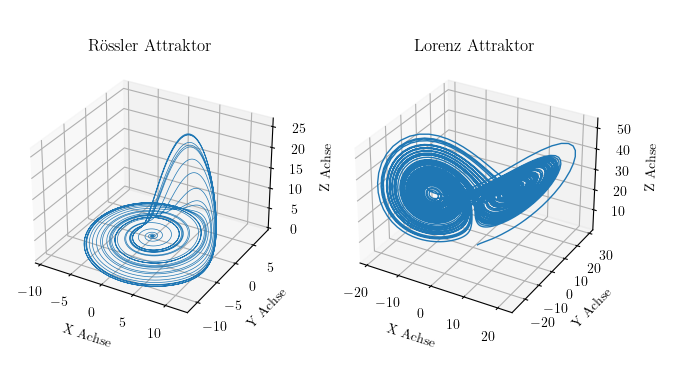
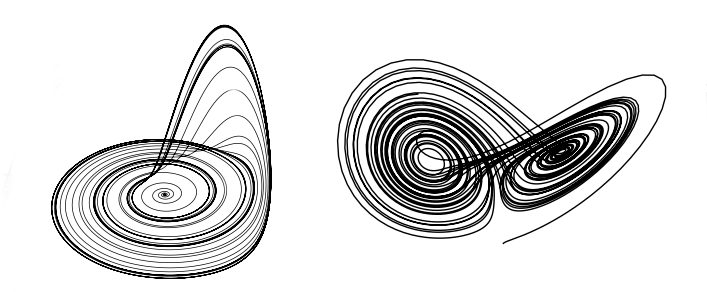
Chaos: Theo fertig

diff --git a/Versuch_Chaos/21-AllgemeinesChaos.tex b/Versuch_Chaos/21-AllgemeinesChaos.tex
@@ -9,7 +9,7 @@
 \subsection{Dynamische Systeme}
 \label{sub:dynamSys}
 Ein \textit{\textbf{dynamisches System}} ist ein mathematisches Modell eines zeitabhängigen Prozesses, dessen Verlauf nur vom Anfangszustand abhängt. \citep{WikiDynSys}\\
-Die Formulierung dieses Sachverhaltes in der Physik geschieht anhand von Differentialgleichungen mit dem Vektor $\vect{x}(t)=(x_1(t)$,...$x_n(t))\in\mathbb{R}^n$
+Die Formulierung dieses Sachverhaltes in der Physik geschieht anhand von Differentialgleichungen mit dem Vektor $\vect{x}(t)=(x_1(t)$,..., $x_n(t))\in\mathbb{R}^n$
 \begin{gather}
     \dot{\vect{x}}(t)=\vect{F}(\vect{x}(t)),
     \label{eq:dynamDGL}
@@ -35,7 +35,7 @@ Das dynamische System ist vollständig determiniert, wenn ein Zustand $\vect{x}(
     Durch die Abhängigkeit der \textit{Trajektorien} vom Anfangszustand $\vect{x}_0$ kann gefolgert werden, dass sich \textit{Trajektorien} mit unterschiedlichen Anfangszuständen $\vect{x}_0$ nicht schneiden können. Es können aber unterschiedliche Anfangszustände $\vect{x}_0$ auf derselben \textit{Trajektorie} befinden und sich nur um eine Zeittranslation unterscheiden. \citep{Mat1}\\
 
     \item[\textbf{3.}]\textbf{Phasenraum}\\
-    Der \textit{\textbf{Phasenraum}} oder \textit{\textbf{Zustandsraum}} beschreibt eine Menge aller Zustände oder eine Darstellung aller Trajektorien eines dynamischen Systems und bietet einen Überblick über das Verhalten der gesamten Differentialgleichung ohne diese explizit für $\vect{x}(t)$ lösen zu müssen. Der \textit{Phasenraum} ist hierbei eine Parameterdarstellung von der Differentialgleichung mit dem Zustand $\vect{x}(t)$ und dessen Ableitung $\dot{\vect{x}}(t)$ mit der Zeit $t$ als Parameter.\\ %!!! Quelle
+    Der \textit{\textbf{Phasenraum}} oder \textit{\textbf{Zustandsraum}} beschreibt eine Menge aller Zustände oder eine Darstellung aller Trajektorien eines dynamischen Systems und bietet einen Überblick über das Verhalten der gesamten Differentialgleichung ohne diese explizit lösen zu müssen.\\ %!!! Quelle
     %Der \textit{Phasenraum} wird vom Zustand $\vect{x}(t)$ und dessen Ableitung $\dot{\vect{x}}(t)$ aufgespannt bzw. ist eine $(\vect{x}(t),\dot{\vect{x}}(t))$-Ebene, was eine Parameterdarstellung der Differentialgleichung über die Zeit $t$ darstellt.
     %In diesem \textit{Phasenraum} lässt sich dann ein Vektor $(\vect{x},\dot{\vect{x}})$ definieren, welcher auf die \textit{Trajektorien}, die sich mit dem Anfangszustand $\vect{x}_0$ änderen, zeigt. Die Ableitung dieses Vektors $\frac{\text{d}}{\text{d}t}(\vect{x},\dot{\vect{x}})=(\dot{\vect{x}},\ddot{\vect{x}})$ erzeugt ein \textit{Vektorfeld} bzw. ein \textit{Richtungsfeld} der Differentialgleichung, dessen Vektoren tangential auf den \textit{Trajektorien} steht.
 
@@ -63,8 +63,9 @@ Das dynamische System ist vollständig determiniert, wenn ein Zustand $\vect{x}(
         \end{tabular}
         \captionof{figure}{Fixpunkt, Grenzzyklus, Tours- bzw. Ringattraktor}
         \includegraphics[width=14cm]{SeltsameAttraktoren.png}
-        \captionof{figure}{Seltsame Attraktoren}
+        \captionof{figure}{Seltsame Attraktoren: Rössler- und Lorentzattraktor}
     \end{center}
+    % !!! Quelle \citep{Lueck}
 \end{itemize}
 
 \subsection{Deterministisches Chaos}
@@ -77,4 +78,15 @@ Das dynamische System ist vollständig determiniert, wenn ein Zustand $\vect{x}(
 
 \subsection{Darstellungsweisen eines chaotischen Attraktor}
 \label{sub:darstellungAttraktor}
-% TODO: #20 FzV 2.1.5 @ManeLippert
+\begin{itemize}
+    \item[\textbf{1.}]{\textbf{Phasenraumdarstellung}}\\
+    Die \textit{\textbf{Phasenraumdarstellung}} wie in \ref{sec:allgemeines} erwähnt, gibt einen Überblick über den Verlauf der Bewegung des dynamischen Systems. Dabei trägt man je an eine Raumachse eine Phasenraumvariabel auf (z.B. $x, \dot{x}$), wobei der Phasenraum dabei $n$-Dimensionen haben kann und nicht alle Phasenraumvariablen bekannt sein müssen, da ein Attraktor im Phasenraum rekonstruiert werden kann. Dazu werden die Messwerte einer Phasenraumvariablen bei einer festen Zeitspanne $\tau$, also $\varphi(t), \varphi(t+\tau)$,..., $\varphi(t+(n-1)\tau)$, als neu Koordinaten $x_i$ (z.B. $x_1=\varphi(t) und x-2=\varphi(t+\tau))$ eines neuen Koordinatensystems. Bei richtiger Wahl von $\tau$ und $n$ lässt sich der tatsächliche Attraktor rekonstruieren. \citep{Lueck}
+    \item[\textbf{2.}]{\textbf{Poincar\'e-Abbildung}}\\
+    Die \textit{\textbf{Poincar\'e-Abbildung}} ist eine Projektion des \textit{\textbf{Poincar\'e-Schnitts}} an einer Ebene. Diese Abbildung ist immer die Dimension $n-1$ und ist somit eine Dimension niedriger als der Phasenraum mit der Dimension $n$ und es gehen keinen Informationen bzgl. dem Langzeitverhalten des Systems verloren. Aufgrund dieser Tatsache lässt sich die \textit{Poincar\'e-Abbildung} zur Analyse von höherdimensionalen Phasenräumen verwenden. Der \textit{Poincar\'e-Schnitt} ist dabei eine Menge aller Durchstoßpunkte der Trajektorien im Phasenraum auf einer Hyperfläche. Hierbei müssen die Trajektorien die Hyperfläche \textit{transversal} (senkrecht) und in einer vorgegebenen Richtung schneiden. Praktisch werden meistens die Lage von Extremwerten einer Messgröße als Bedingung für die Schnittebene (Hyperfläche) und trägt diese gegen die anderen Phasenraumvariablen zu diesem Zeitpunkt gegeneinander auf oder man wählt eine Ebene, die den Attraktor geeignet schneidet. \citep{Lueck}
+    \item[\textbf{3.}]{\textbf{Wiederkehr-Abbildung}}\\
+    Bei der \textit{\textbf{Wiederkehr-Abbildung}} wird eine diskrete Abbildung aktueller Messwerte über die vorangegangenen Messwerte augetragen. Diese Abbildung ähnelt dann einen \textit{Poincar\'e-Schnitt}, weswegen man bei einem kontinuierlichen System (\ref{eq:dynamDGL}) dessen \textit{Poincar\'e-Abbildung} für dieses Verfahren verwendet. \citep{Lueck}
+    \item[\textbf{4.}]{\textbf{Bifurkationsdiagramm}}\\
+    Bei einem \textit{\textbf{Bifurkationsdiagramm}} betrachtet man die Projektion der \textit{Poincar\'e-Abbildung} auf \textbf{eine} Achse unter Veränderung eines Kontrollparameters (z.B. der Zeit $t$), wobei man die durch die Projektion gewonnenen Werte gegen den jeweiligen Parameterwert aufträgt. \citep{Lueck}
+    \item[\textbf{5.}]{\textbf{Phasendiagramm}}\\
+    Wenn bei dem \textit{Bifurkationsdiagramm} mehrere unterschiedliche voneinander unabhängige Parameter existieren, verwendet man das \textit{\textbf{Phasendiagramm}}. Dazu trägt man die als Koordinaatenachsen die jeweiligen Parameter, die das Systemverhalten beeinflussen, gegeneinander auf und erhält Landkarte des globalen Systemverhaltens in Abhängigkeit der gewählten Parameter. \citep{Lueck}    
+\end{itemize}

diff --git a/Versuch_Chaos/21-Attraktor.py b/Versuch_Chaos/21-Attraktor.py
@@ -1,4 +1,6 @@
 # Source: http://jupiter-online.net/roessler-attraktor-zeichnen-mit-matplotlib/
+# Source: http://jupiter-online.net/lorenz-attraktor-zeichnen-mit-matplotlib/
+
 # Module importieren
 import numpy as np
 import matplotlib.pyplot as plt
@@ -6,79 +8,81 @@ from matplotlib import rc
 from mpl_toolkits.mplot3d import Axes3D
 
 '''Roessler Attraktor'''
-# Funktion zur Berechnung des Rössler Attraktors
-def roessler(x, y, z, a=0.2, b=0.2, c=5.7):
+def roessler(x, y, z, a, b, c):
     dx = -(y + z)
     dy = x + a * y
     dz = b + z * (x - c)
     return dx, dy, dz
 
+'''Lorentz Attraktor'''
+def lorentz(x, y, z, a, b, c):
+    dx = a * (y - x)
+    dy = b * x - y - x * z
+    dz = x * y - c * z
+    return dx, dy, dz
+
+def test(x ,y , z ,a ,b ,c):
+    dx = a*(y-x)+y*z
+    dy = b*x - y -x*z
+    dz = x*y-c*z
+    return dx, dy, dz
+
 # Schrittweite und Anzahl der Schritte definieren
 dt = 0.01
-numSteps = 20000
+numSteps_r = 30000
+numSteps_l = 5000
  
 # Arrays für x, y und z Werte initialisieren
-X = np.zeros(numSteps + 1)
-Y = np.zeros(numSteps + 1)
-Z = np.zeros(numSteps + 1)
+x_r = np.zeros(numSteps_r + 1)
+y_r = np.zeros(numSteps_r + 1)
+z_r = np.zeros(numSteps_r + 1)
+
+x_l = np.zeros(numSteps_l + 1)
+y_l = np.zeros(numSteps_l + 1)
+z_l = np.zeros(numSteps_l + 1)
  
 # Starwerte festlegen
-X[0], Y[0], Z[0] = (0, 0, 0)
+x_r[0], y_r[0], z_r[0] = (0, 0, 0)
+a_r, b_r, c_r = (0.2, 0.2, 5.7)
+
+x_l[0], y_l[0], z_l[0] = (1.0, 1.0, 1.0)
+a_l, b_l, c_l = (10, 28, 8/3)
 
 # x, y und z Positionen Schrittweise berechnen
-for i in range(numSteps):
-    dx, dy, dz = roessler(X[i], Y[i], Z[i])
-    X[i + 1] = X[i] + (dx * dt)
-    Y[i + 1] = Y[i] + (dy * dt)
-    Z[i + 1] = Z[i] + (dz * dt)
+for i in range(numSteps_r):
+    dx_r, dy_r, dz_r = roessler(x_r[i], y_r[i], z_r[i], a_r, b_r, c_r)
+    x_r[i + 1] = x_r[i] + (dx_r * dt)
+    y_r[i + 1] = y_r[i] + (dy_r * dt)
+    z_r[i + 1] = z_r[i] + (dz_r * dt)
+
+for i in range(numSteps_l):   
+    dx_l, dy_l, dz_l = lorentz(x_l[i], y_l[i], z_l[i], a_l, b_l, c_l)
+    x_l[i + 1] = x_l[i] + (dx_l * dt)
+    y_l[i + 1] = y_l[i] + (dy_l * dt)
+    z_l[i + 1] = z_l[i] + (dz_l * dt)
     
-# Figur erzeugen und 3D Projektion aktivieren
 rc('text', usetex=True)
 rc('font', family='serif')
 
 fig = plt.figure()
-#fig.suptitle("Seltsame Attraktoren")
-ax1 = fig.add_subplot(1, 2, 1, projection='3d')
+
+ax_r = fig.add_subplot(1, 2, 1, projection='3d')
+ax_l = fig.add_subplot(1, 2, 2, projection='3d')
        
-# Diagram beschriften
-ax1.plot(X, Y, Z, lw=0.5)
-ax1.set_xlabel("X Achse")
-ax1.set_ylabel("Y Achse")
-ax1.set_zlabel("Z Achse")
-ax1.set_title("Rössler Attraktor")
+ax_r.plot(x_r, y_r, z_r, lw=0.5, color='black')
+ax_r.set_xlabel("x")
+ax_r.set_ylabel("y")
+ax_r.set_zlabel("z")
+ax_r.axis('off')
+ax_r.set_title("Rössler Attraktor")
 
-'''Lorentz Attraktor'''
-# Source: http://jupiter-online.net/lorenz-attraktor-zeichnen-mit-matplotlib/
-# Schrittweite und Anzahl der Schritte definieren
-step = 0.01
-numSteps = 10000
- 
-# Konstanten für Berechnung der Ableitungen definieren
-a, b, c = 10, 28, 8/3
- 
-# Arrays für x, y und z Werte initialisieren
-x = np.zeros(numSteps+1)
-y = np.zeros(numSteps+1)
-z = np.zeros(numSteps+1)
- 
-# Starwerte festlegen
-x[0], y[0], z[0] = 1.0, 1.0, 1.0
-
-# x, y und z Positionen berechnen
-for i in range(numSteps):
-    x[i+1] = x[i] + (step * (a * (y[i] - x[i])))
-    y[i+1] = y[i] + (step * (b * x[i] - y[i] - x[i] * z[i]))
-    z[i+1] = z[i] + (step * (x[i]*y[i] - c*z[i]))
- 
-# 3D Projektion aktivieren
-ax2 = fig.add_subplot(1, 2, 2, projection='3d')
-
-# Diagramm beschriften
-ax2.plot(x, y, z, lw=1.0)
-ax2.set_xlabel("X Achse")
-ax2.set_ylabel("Y Achse")
-ax2.set_zlabel("Z Achse")
-ax2.set_title("Lorenz Attraktor")
+ax_l.plot(x_l, y_l, z_l, lw=1.0, color='black')
+ax_l.set_xlabel("x")
+ax_l.set_ylabel("y")
+ax_l.set_zlabel("z")
+ax_l.axis('off')
+ax_l.set_title("Lorenz Attraktor")
  
 # Bild anzeigen
+plt.subplots_adjust(wspace=0.1)
 plt.show()

diff --git a/Versuch_Chaos/Versuch_Chaos.tex b/Versuch_Chaos/Versuch_Chaos.tex
@@ -104,6 +104,8 @@
     \input{60-Anhang.tex}
 
     % Literatur
+
+    % TODO: #26 Abbildungsverzeichnis @ManeLippert@PaulSchwanitz
     \bibliographystyle{Auswertung.bst}
     \nocite{*}
     \bibliography{Auswertung.bib}
